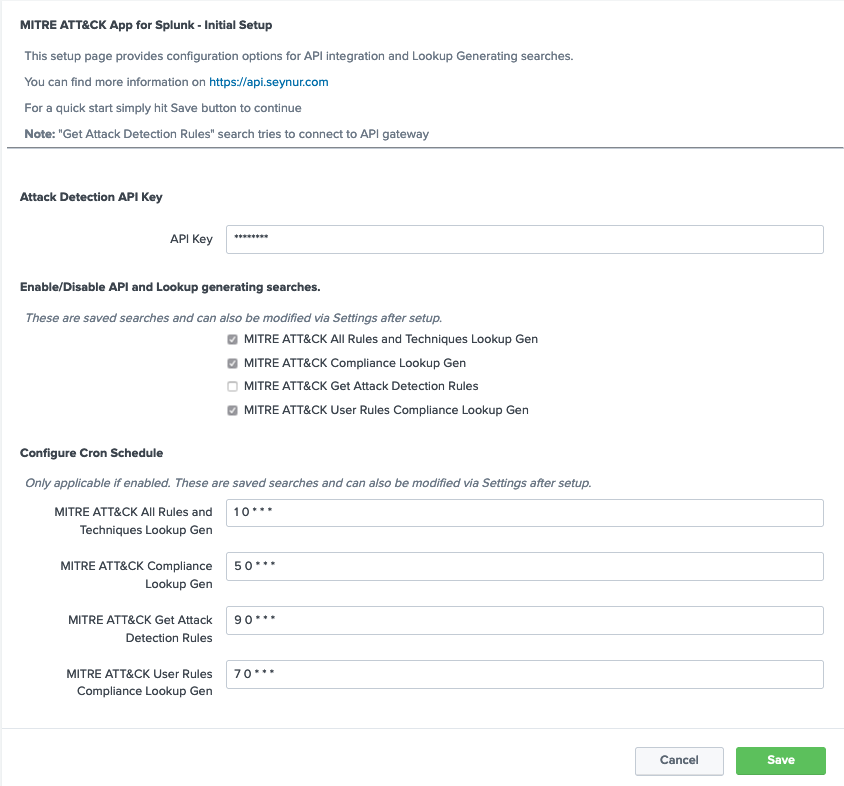
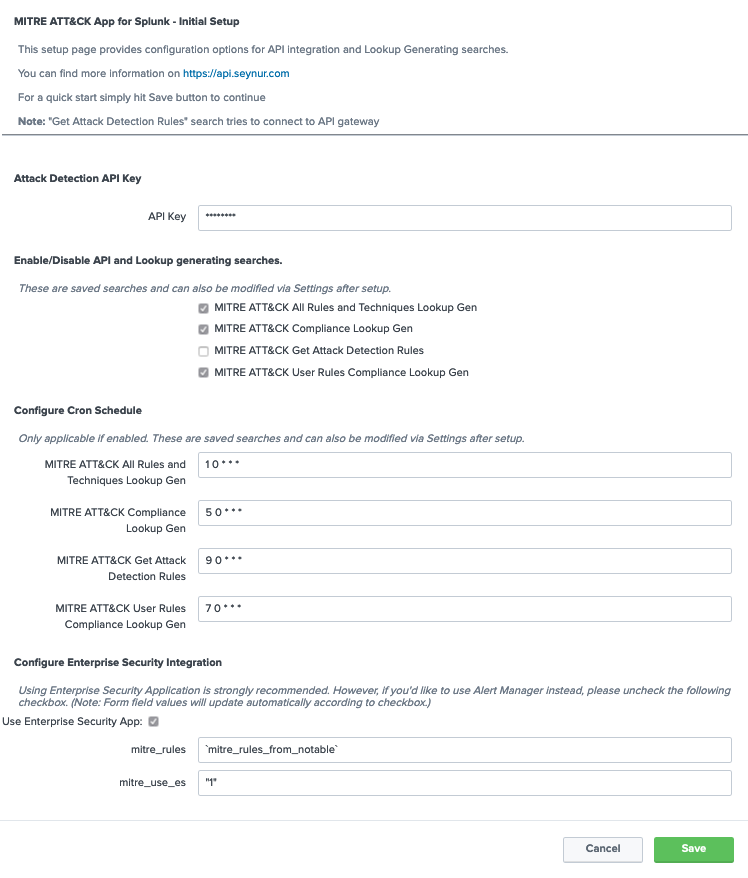
Updated documentation and view text for non-ES option

diff --git a/docs/user_guide.md b/docs/user_guide.md
@@ -6,7 +6,7 @@ title: User Guide
 ### User Guide
 This guide will provide description for the views that comes with this application and steps on how to create additional correlation searches.
 
-* [MITRE ATT&CK Compliance with Splunk ES View](#mitre-attck-compliance-with-splunk-es-view)
+* [MITRE ATT&CK Compliance View](#mitre-attck-compliance-view)
 * [MITRE ATT&CK Matrix View](#mitre-attck-matrix-view)
 * [MITRE ATT&CK Triggered Tactics & Techniques View](#mitre-attck-triggered-tactics--techniques-view)
 * [How To Match a Correlation Search with Framework](#how-to-match-a-correlation-search-with-framework)
@@ -24,12 +24,12 @@ This guide will provide description for the views that comes with this applicati
 
 
 
-### MITRE ATT&CK Compliance with Splunk ES View
+### MITRE ATT&CK Compliance View
 Each cell containing a technique is colored based on the percentage of enabled correlation searches.
 
 If there isn't any related correlation searches, the cell is left uncolored.
 
-If there are available correlation searches within Enterprise Security (and ESCU), then cells are colored based on percentage of enabled/active ones.
+If there are available correlation searches either within Enterprise Security (and ESCU) or as regular saved searches with matching MITRE ATT&CK techniques, then cells are colored based on percentage of enabled/active ones.
 
 Currently the ranges are set as follows:
 * none: 0–30% (uncolored)
@@ -51,9 +51,9 @@ You can mouse over to the cells that contain techniques in order to view the num
 
 
 ### MITRE ATT&CK Matrix View
-This dashboard/form has filtering options based on "**Event Time Range**" and "**Urgency**" level of Notable Events.  It provides and overview of triggered techniques within MITRE ATT&CK Matrix colored according to the "**Urgency**" level of Notable Events.
+This dashboard/form has filtering options based on "**Event Time Range**" and "**Urgency**" level and it provides and overview of triggered techniques within MITRE ATT&CK Matrix colored according to the "**Urgency**" level of Notable Events or Alert Manager populated index.
 
-You can click on the triggered technique which provides the drill-down functionality and opens up Enterprise Security App **Incident Review** view for further analysis/investigation.
+You can click on the triggered technique which provides the drill-down functionality.  Depending on your setup you will either drill-down via Enterprise Security App **Incident Review** view or Alert Manager **Incident Posture** for further analysis/investigation.
 
 ![triggered_techniques1]
 

diff --git a/docs/index.md b/docs/index.md
@@ -4,15 +4,24 @@ title: Overview
 ---
 
 ### Overview
-This application ([https://splunkbase.splunk.com/app/4617/](https://splunkbase.splunk.com/app/4617/)) provides compliance and triage dashboards for MITRE ATT&CK Framework that are fully integrated with Splunk Enterprise Security ([https://splunkbase.splunk.com/app/263/](https://splunkbase.splunk.com/app/263/)) and Splunk ES Content Update ([https://splunkbase.splunk.com/app/3449/](https://splunkbase.splunk.com/app/3449/)) with drill-down capabilities.
+This application provides compliance and triage dashboards for MITRE ATT&CK Framework with drill-down capabilities. It is recommended to utilize [Splunk Enterprise Security](https://splunkbase.splunk.com/app/263/) and [Splunk ES Content Update] (https://splunkbase.splunk.com/app/3449/); however, starting with version 2.3.0 non-ES deployments are also supported with [Alert Manager] (https://splunkbase.splunk.com/app/2665/) integration.
 
-### Required Splunk Apps:
-* Splunk Enterprise Security 5.2 or above: [https://splunkbase.splunk.com/app/263/](https://splunkbase.splunk.com/app/263/)
-* Sankey Diagram - Custom Visualization: [https://splunkbase.splunk.com/app/3112/](https://splunkbase.splunk.com/app/3112/)
+#### Required Splunk Apps:
+Starting with version 2.3.0, we added support for non-ES (Enterprise Security App) deployments as well.
 
-### Recommended Splunk Apps:
-* Splunk ES Content Update 1.0.40 or above: [https://splunkbase.splunk.com/app/3449/](https://splunkbase.splunk.com/app/3449/)
-* Lookup File Editor: [https://splunkbase.splunk.com/app/1724/](https://splunkbase.splunk.com/app/1724/)
+One of the following applications is required:
+- [Splunk Enterprise Security](https://splunkbase.splunk.com/app/263/) 5.2 or above 
+
+    _OR_
+- [Alert Manager](https://splunkbase.splunk.com/app/2665/)
+
+For one of the views:
+- [Sankey Diagram - Custom Visualization](https://splunkbase.splunk.com/app/3112/)
+
+
+#### Recommended Splunk Apps:
+- [Splunk ES Content Update](https://splunkbase.splunk.com/app/3449/) 1.0.40 or above
+- [Lookup File Editor](https://splunkbase.splunk.com/app/1724/)
 
 __Note__: Although the app will work without ES Content Update, it is highly recommended since it comes with many correlation rules that have mitre_attack annotations already.
 

diff --git a/docs/installation.md b/docs/installation.md
@@ -13,7 +13,7 @@ title: Installation
 
 ### Initial Setup
 Upon installation of the application you will be redirected to the Setup page.
-1. This setup page provides configuration options for API integration.  If you do not have an API key or prefer not to have the integration you can simply hit Save button and continue.  You can always go back to this Setup page and overwrite the settings.  Note that Setup also provides information on scheduled Lookup Generating searches and their schedules.  These can also be edited from Settings.
+1. This setup page provides configuration options for API integration as well as usage with Enterprise Security.  If you do not have an API key or prefer not to have the integration you can simply hit Save button and continue.  If you do not have Enterprise Security, you can use Alert Manager application for triggered results and drill down functionality.  You can always go back to this Setup page and overwrite the settings.  Note that Setup also provides information on scheduled Lookup Generating searches and their schedules.  These can also be edited from Settings.
     &nbsp;
 
    ![setup0]

diff --git a/docs/release_notes.md b/docs/release_notes.md
@@ -4,6 +4,12 @@ title: Release Notes
 ---
 
 ### Release Notes:
+#### Version 2.3.0
+- Date: 22 Jun 2020
+- Feature: Option to work with plain Splunk Enterprise (no ES requirement)
+  - Added macros for flexible deployment option (default is ES app)
+  - Updated views to use the macros
+
 #### Version 2.2.0
 - Date: 09 May 2020
 - Bug fix: Duplication issue for Rule Finder
